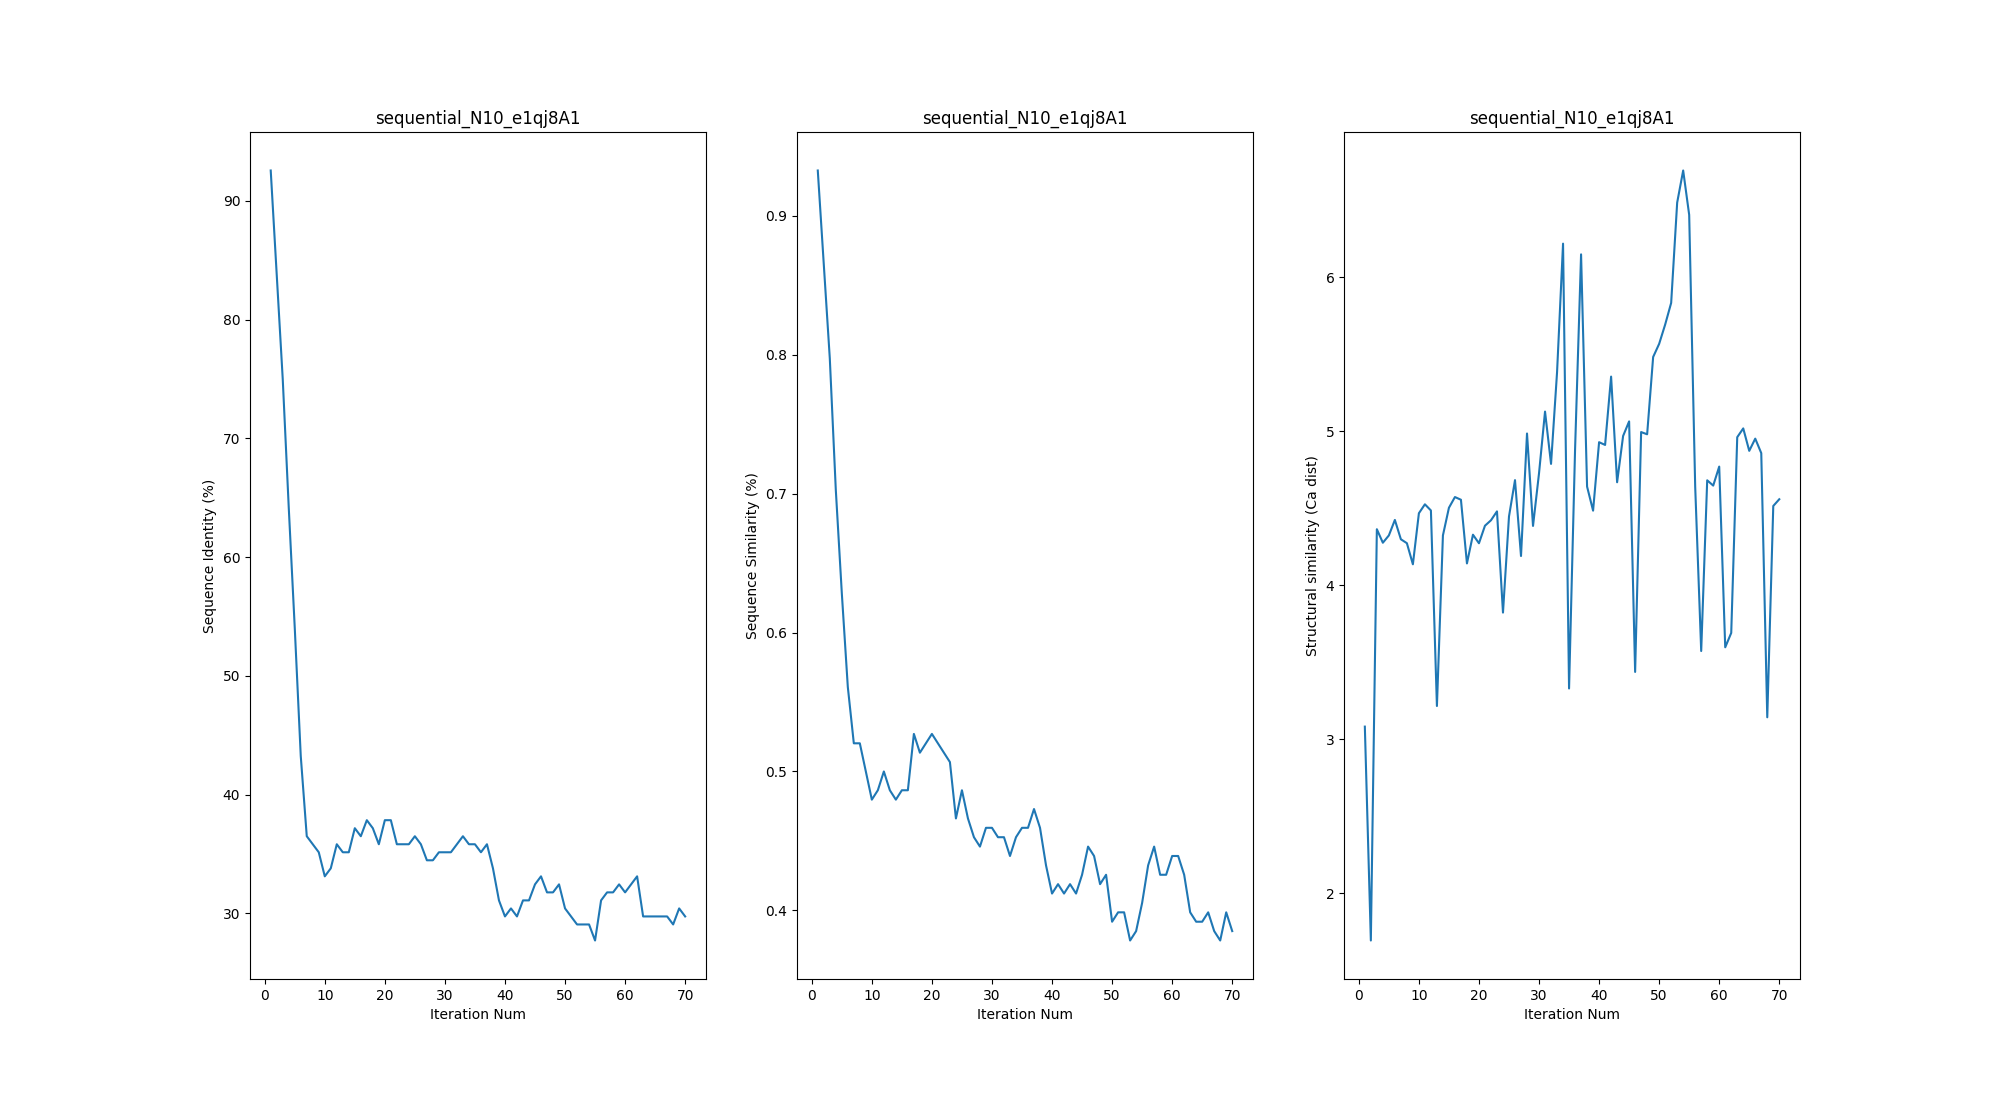
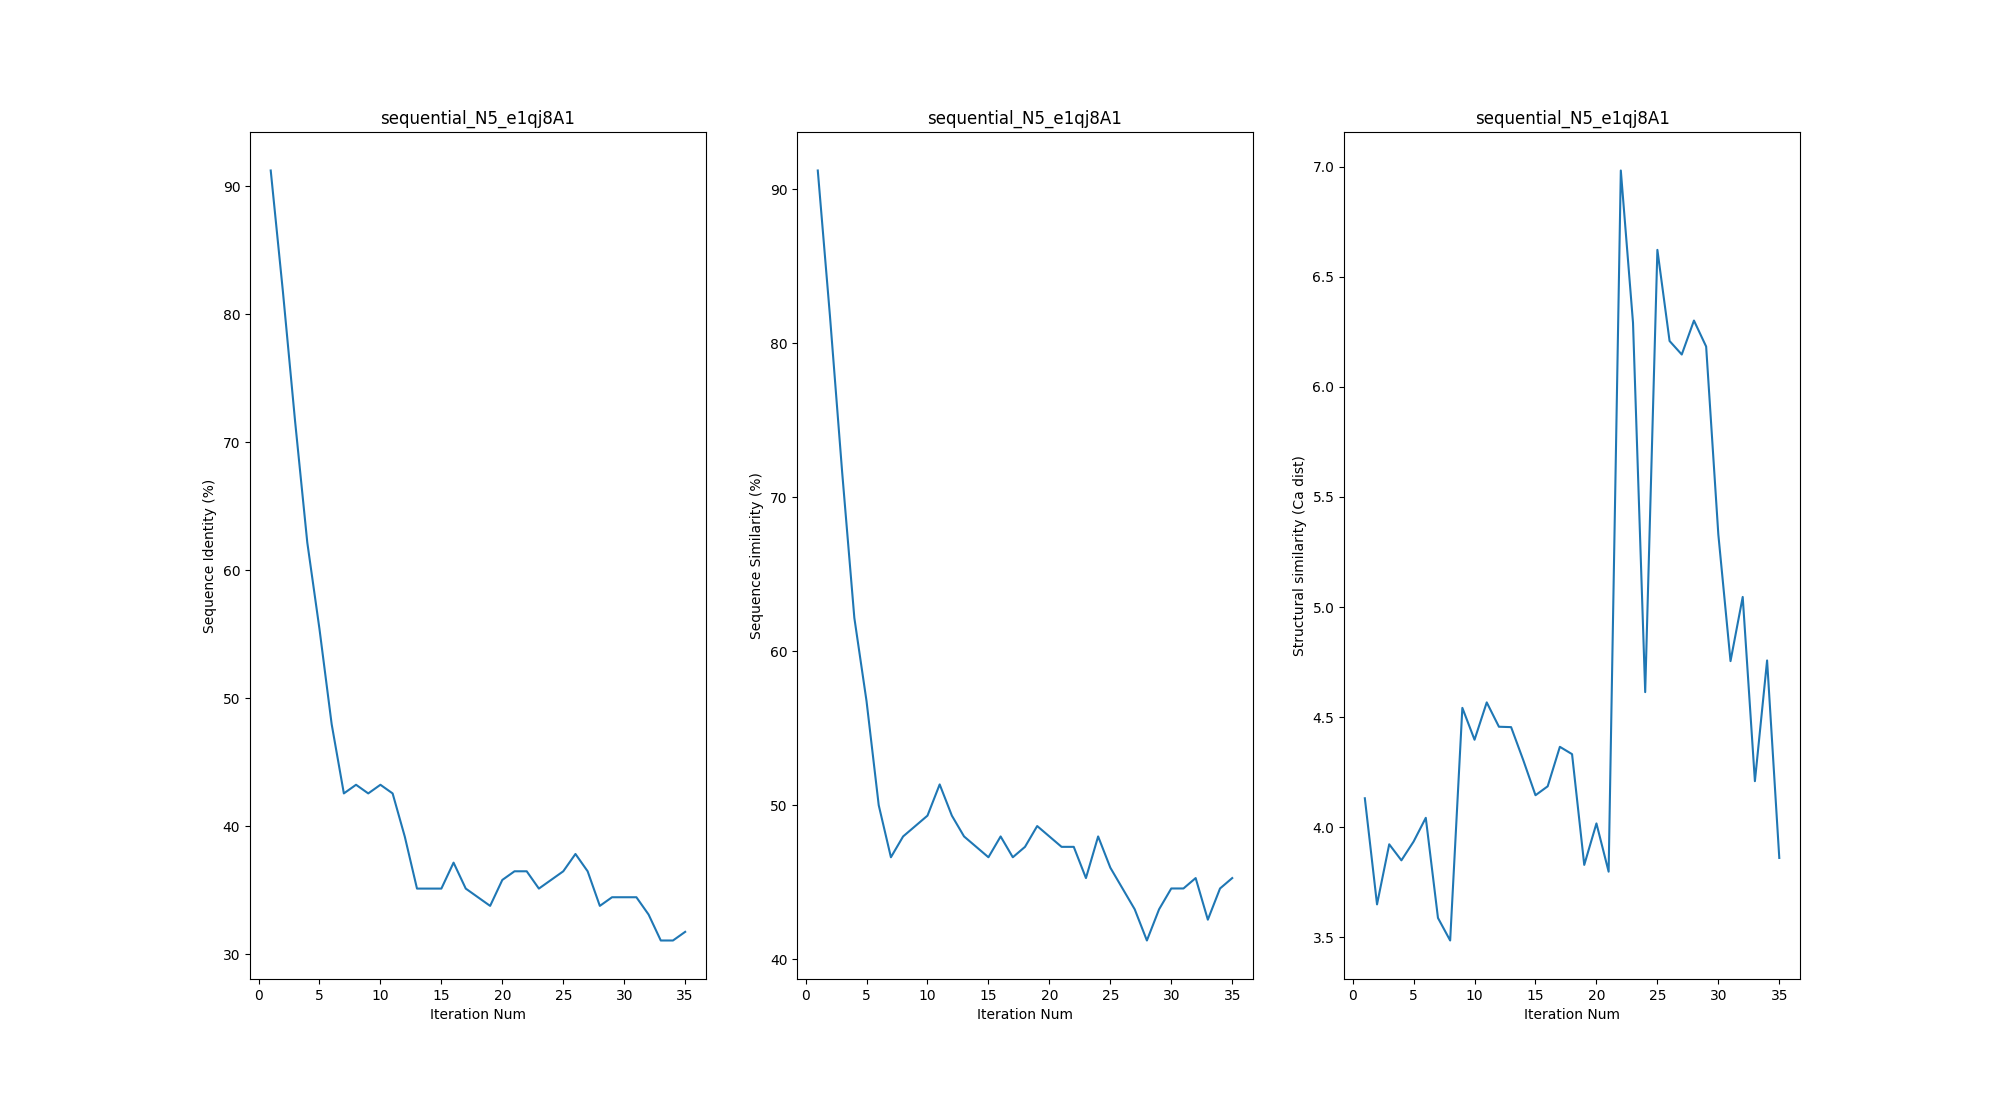
images

diff --git a/hyperparam_gen_comp.py b/hyperparam_gen_comp.py
@@ -12,7 +12,7 @@ def calculate_seq_identity(seq1, seq2):
     return identity
 
 
-def plotHeapMap(results_dir, strategy, id, param, param_range, data, iter_num):
+def plotHeapMap(results_dir, strategy, NxLoop, id, param, param_range, data, iter_num):
     seq_comp = [[0]*len(data) for _ in data]
     for i, seq1 in enumerate(data):
         for j, seq2 in enumerate(data):
@@ -21,17 +21,17 @@ def plotHeapMap(results_dir, strategy, id, param, param_range, data, iter_num):
     # Create the heatmap
     seq_comp = np.array(seq_comp)
     plt.figure(figsize=(12, 10))
-    sns.heatmap(seq_comp, annot=False, cmap='coolwarm', cbar=True, xticklabels=param_range, yticklabels=param_range)
+    sns.heatmap(seq_comp, annot=False, cmap='Spectral', cbar=True, xticklabels=param_range, yticklabels=param_range, vmin=0, vmax=100)
     # Adjust the axis labels
     plt.xticks(rotation=45, ha="right", fontsize=8)  # Rotate x-axis labels
     plt.yticks(fontsize=8)  # Adjust font size for y-axis labels
     plt.xlabel('Seed')
     plt.ylabel('Seed')
     # Add a title
-    plt.title(f"Generated sequences in the {iter_num}th iteration comparsion using {strategy} strategy and different {param}s")
+    plt.title(f"Sequence Identity comparsion in the generated sequences in the {iter_num}th with different {param}s")
 
     # Save the figure
-    curr_dir = f"{results_dir}/{strategy}/{param}/{id}"
+    curr_dir = f"{results_dir}/{strategy}_N{NxLoop}/{param}/{id}"
     if not os.path.exists(curr_dir):
         try:
             os.makedirs(curr_dir)  # Create the directory
@@ -49,18 +49,19 @@ def run(args):
     strategy = args.strategy
     MIN_STRAND_LEN = args.MIN_STRAND_LEN
     MAX_STRAND_LEN = args.MAX_STRAND_LEN
-    gen_seq_ana_strategy_dir =  f'{gen_seq_ana_dir}/{strategy}'
-    param = args.param
+    NxLoop = args.NxLoop
+    gen_seq_ana_strategy_dir =  f'{gen_seq_ana_dir}/{strategy}_N{NxLoop}'
+    param = args.HyperParam
 
     param_range = []
     # generated randomly 
-    if args.param == 'seed' :
+    if param == 'seed' :
         param_range = [1055, 1491, 1779, 2152, 2280, 
                        2795, 3017, 3188, 3829, 4604, 
                        4762, 4772, 6507, 6600, 7631, 
                        7659, 8357, 8531, 8956, 9213]
         
-    elif args.param == 'temperature' :
+    elif param == 'temperature' :
         param_range = [ 0.01322636856325421, 0.04699817656041905, 0.07464317162580314, 0.12045644716760062, 
                         0.13916569878527563, 0.15008777501514126, 0.21204356514687728, 0.21947129622082506, 
                         0.3432534576778067, 0.38764365536787626, 0.3883917640946134, 0.3895152114525644, 
@@ -88,7 +89,7 @@ def run(args):
             for curr_param in param_range:
                 seq_ith_gen_with_param.append(generated_seq[curr_param][id][i])
             # save comparsion betweeen the generated sequences in the ith iteration between all params
-            plotHeapMap(results_dir, strategy, id, param, param_range, seq_ith_gen_with_param, i)
+            plotHeapMap(results_dir, strategy,NxLoop, id, param, param_range, seq_ith_gen_with_param, i)
 
     return 
 
@@ -104,7 +105,7 @@ if __name__ == "__main__" :
     parser.add_argument("--strategy",type=str,
                         choices=['sequential', 'reverse', 'random'],
                         default='sequential')
-    parser.add_argument("--param", type=str,
+    parser.add_argument("--HyperParam", type=str,
                         choices=['seed', 'temperature'],
                         default='seed')
     

diff --git a/generation_comp.py b/generation_comp.py
@@ -27,7 +27,7 @@ def calculate_seq_similarity(seq1, seq2, matrix = substitution_matrices.load('BL
     
     # Normalize the similarity score by the length of the sequence
     normalized_similarity = valid_pairs / len(seq1)
-    return normalized_similarity
+    return normalized_similarity * 100
 
 def calculate_seq_identity(seq1, seq2):
     # Calculate identity
